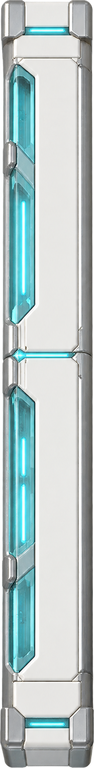
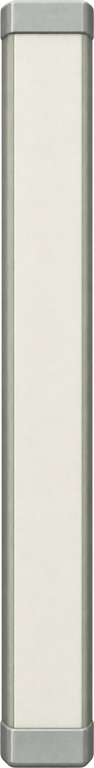
Restyle laboratory floors and walls as an early-2000s research facility

diff --git a/js/laboratory.js b/js/laboratory.js
@@ -13,32 +13,32 @@ let laboratoryFloorTile=null;
 function laboratoryImage(kind){
  const key=LABORATORY_ART[kind];if(!key)return null;
  if(!laboratoryImages[key]){
-  const image=new Image();image.decoding='async';image.src='assets/indoor/laboratory/'+key+'.webp';
+  const image=new Image();image.decoding='async';image.src='assets/indoor/laboratory/'+key+'.webp'+(key==='lab-floor'||key.startsWith('lab-wall-')?'?v=2000-r1':'');
   laboratoryImages[key]=image;
  }
  const image=laboratoryImages[key];return assetOK(image)?image:null;
 }
 function prepareLaboratoryAssets(){for(const kind of Object.keys(LABORATORY_ART))laboratoryImage(kind);}
 function laboratoryFloorPattern(context){
- const image=laboratoryImage('floor');if(!image)return '#edf5f6';
+ const image=laboratoryImage('floor');if(!image)return '#e9e8df';
  let pattern=laboratoryFloorPatterns.get(context);
  if(!pattern){
   // Build a seamless mirrored tile once, then reuse the cached pattern.
   if(!laboratoryFloorTile){
    const tile=document.createElement('canvas'),w=image.naturalWidth,h=image.naturalHeight;
    tile.width=w*2;tile.height=h*2;const q=gameCanvasContext(tile);
-   q.fillStyle='#edf5f6';q.fillRect(0,0,tile.width,tile.height);
+   q.fillStyle='#e9e8df';q.fillRect(0,0,tile.width,tile.height);
    for(let y=0;y<2;y++)for(let x=0;x<2;x++){q.save();q.translate(x?w*2:0,y?h*2:0);q.scale(x?-1:1,y?-1:1);q.drawImage(image,0,0);q.restore();}
    laboratoryFloorTile=tile;
   }
   pattern=context.createPattern(laboratoryFloorTile,'repeat');if(pattern)laboratoryFloorPatterns.set(context,pattern);
  }
- return pattern||'#edf5f6';
+ return pattern||'#e9e8df';
 }
 function drawLaboratoryWall(c){
  const horizontal=c.w>=c.h,image=laboratoryImage(horizontal?'wall':'wallVertical');
  // A seamless rectangular face matches the existing collider, including after wall fragmentation.
- if(!image){g.fillStyle='#e5f1f3';g.fillRect(c.x,c.y,c.w,c.h);return true;}
+ if(!image){g.fillStyle='#eeece5';g.fillRect(c.x,c.y,c.w,c.h);return true;}
  return drawAssetSprite(image,c.x+c.w/2,c.y+c.h/2,c.w*1.03,c.h*1.03,0,1);
 }
 function laboratoryAssetStamp(){

diff --git a/index.html b/index.html
@@ -999,7 +999,7 @@ const cv=document.getElementById('c'),gm=gameCanvasContext(cv,{alpha:false}),oc=
 const canvasCreationDiagnostics={requested:MOBILE_READBACK_CANVAS,accepted:null};
 try{const attributes=gm.getContextAttributes?.();if(attributes&&typeof attributes.willReadFrequently==='boolean')canvasCreationDiagnostics.accepted=attributes.willReadFrequently;}catch(_){}
 window.tankCanvasDiagnostics=canvasCreationDiagnostics;
-const GAME_VERSION='2026.10.31.0844',FILE_CREATED_AT='2026/10/31 08:44',DRILL_ACTIVE=5,DRILL_RECHARGE=6,DIG_PREP_DURATION=.5;
+const GAME_VERSION='2026.10.31.0856',FILE_CREATED_AT='2026/10/31 08:56',DRILL_ACTIVE=5,DRILL_RECHARGE=6,DIG_PREP_DURATION=.5;
 // 表示・保存用のm換算。移動・評価は内部座標のまま扱う。
 const distanceMeters=distance=>Math.round(Math.max(0,distance)/10);
 let audioCtx=null,gameAudioOutput=null;
@@ -8462,8 +8462,8 @@ function reportGameError(error){
 <script src="js/maze-walls.js?v=2026.10.14.1653"></script>
 <script src="js/canyon.js?v=2026.10.28.0713"></script>
 <script src="js/vegetation.js?v=2026.10.14.1653"></script>
-<script src="js/laboratory.js?v=2026.10.31.0844"></script>
-<script src="js/infiltration-world.js?v=2026.10.31.0844"></script>
+<script src="js/laboratory.js?v=2026.10.31.0856"></script>
+<script src="js/infiltration-world.js?v=2026.10.31.0856"></script>
 <script src="js/infiltration-render.js?v=2026.10.31.0844"></script>
 <script src="js/input-diagnostics.js?v=2026.10.28.0713"></script>
 <script>

diff --git a/js/infiltration-world.js b/js/infiltration-world.js
@@ -2783,7 +2783,7 @@ function drawInfiltrationFloors(cx,cy){
   if(!indoorWorld)return;
   const left=Math.max(0,cx-24),top=cy-24,right=Math.min(WW,cx+W+24),bottom=cy+H+24;
   // Upstairs has no exterior floor: use a flat void, never walkable ground.
-  g.fillStyle=typeof isLaboratoryStage==='function'&&isLaboratoryStage()?'#e0ebed':indoorWorld.currentFloor===1?'#11171c':terrainSurfacePattern(indoorOutdoorTerrain)||indoorOutdoorTerrain.g;
+  g.fillStyle=typeof isLaboratoryStage==='function'&&isLaboratoryStage()?'#e2e4df':indoorWorld.currentFloor===1?'#11171c':terrainSurfacePattern(indoorOutdoorTerrain)||indoorOutdoorTerrain.g;
   g.fillRect(left,top,right-left,bottom-top);
   const concrete=indoorConcretePattern()||'#777975';
   for(const f of indoorWorld.floors){
@@ -2803,7 +2803,7 @@ function drawInfiltrationFloors(cx,cy){
     // inset rectangle or mat may imply a wall along their walkable boundary.
     for(const room of f.rooms){
       if(room.y+room.h<cy-40||room.y>cy+H+40)continue;
-      g.fillStyle=typeof isLaboratoryStage==='function'&&isLaboratoryStage()?'rgba(123,211,225,.055)':room.id%2===0?'rgba(34,41,33,.08)':'rgba(34,41,33,.12)';
+      g.fillStyle=typeof isLaboratoryStage==='function'&&isLaboratoryStage()?'rgba(119,125,118,.045)':room.id%2===0?'rgba(34,41,33,.08)':'rgba(34,41,33,.12)';
       for(const tile of room.tiles){
         if(tile.y+tile.h<cy-30||tile.y>cy+H+30)continue;
         // Adjacent same-room tiles share an open interior, never draw an internal wall.

diff --git a/docs/laboratory-stage.md b/docs/laboratory-stage.md
@@ -4,21 +4,21 @@
 通常の7ステージの解放順は維持し、このテストのスコア・称号・戦績・解放・ランキングは保存しない。
 
 潜入（上級）のマップ生成、当たり判定、2階構成、敵兵・軍用犬・巡回・警報・増援、重要資料3か所（各8秒）、脱出5秒を共有する。
-白い床・壁とクリアシアンの研究設備へ描画だけを切り替える。館内の暗い描画マスクは35%の濃さとするが、敵の視認判定に使う照明計算は上級と同一。
+2000年代初頭の研究施設をイメージしたアイボリー／薄灰色のタイル床・オフホワイトの塗装壁と、クリアシアンの研究設備へ描画だけを切り替える。館内の暗い描画マスクは35%の濃さとするが、敵の視認判定に使う照明計算は上級と同一。
 
 ## 素材
 
 `assets/indoor/laboratory/` に透過PNG原本12点と、それらから変換したWebP12点を格納。
 壁（横・縦）、床、実験机、保管棚、分析装置、培養装置、スキャナーベッド、試料箱、自動ドア、階段、研究所外観。
-PNGは透過余白をトリミングして長辺384〜768pxへ縮小。WebPは長辺384px（縦壁のみ768px）、品質85で出力。WebP12点の転送量は合計253,044バイト（約247KiB）。
+PNGは長辺384〜768pxへ縮小（壁・設備は透過余白をトリミングし、床は外周の透過を保持）。WebPは長辺384px（縦壁のみ768px）、品質85で出力。WebP12点の転送量は合計258,016バイト（約252KiB）。
 ゲームはWebPだけを使用し、PNGはCloudflareの静的配信対象から除外。
 研究所選択時に読み込み、既存の静的描画キャッシュを共有する。床は初回だけ2×2の鏡面配置タイルを作り、以後パターンを再利用する。
 家具の当たり判定は上級の既存寸法を維持し、その範囲に専用絵を収める。
 
 ## 画像生成
 
-内蔵ImageGen、新規生成・透過背景モード。各アセット固有の指示は `laboratory-art-prompts.json` に記録。
-共通指示：isolated raster game sprite for a bright advanced science laboratory; cute polished 3D top-down stealth game; clean white ceramic, brushed silver, transparent pale cyan glass/acrylic, luminous cyan accents, rounded detailed toy-like render, soft even bright lighting. Orthographic top-down view with a small visible south/front face, matching indoor furniture sprites. No scene, floor plane, people, military equipment, text, labels, logos or cast shadow outside silhouette. One complete centered object, tight transparent margin, genuinely transparent background. Floor is a flat directly overhead material tile; building is an isometric thumbnail.
+内蔵ImageGen、透過背景モード。設備9点は初回の新規生成を維持し、床・横壁・縦壁3点は元画像を編集して2000年代初頭風に変更。各アセット固有の指示は `laboratory-art-prompts.json` に記録。
+初回の設備生成共通指示：isolated raster game sprite for a bright advanced science laboratory; cute polished 3D top-down stealth game; clean white ceramic, brushed silver, transparent pale cyan glass/acrylic, luminous cyan accents, rounded detailed toy-like render, soft even bright lighting. Orthographic top-down view with a small visible south/front face, matching indoor furniture sprites. No scene, floor plane, people, military equipment, text, labels, logos or cast shadow outside silhouette. One complete centered object, tight transparent margin, genuinely transparent background. Floor is a flat directly overhead material tile; building is an isometric thumbnail.
 
 ## 検証
 
